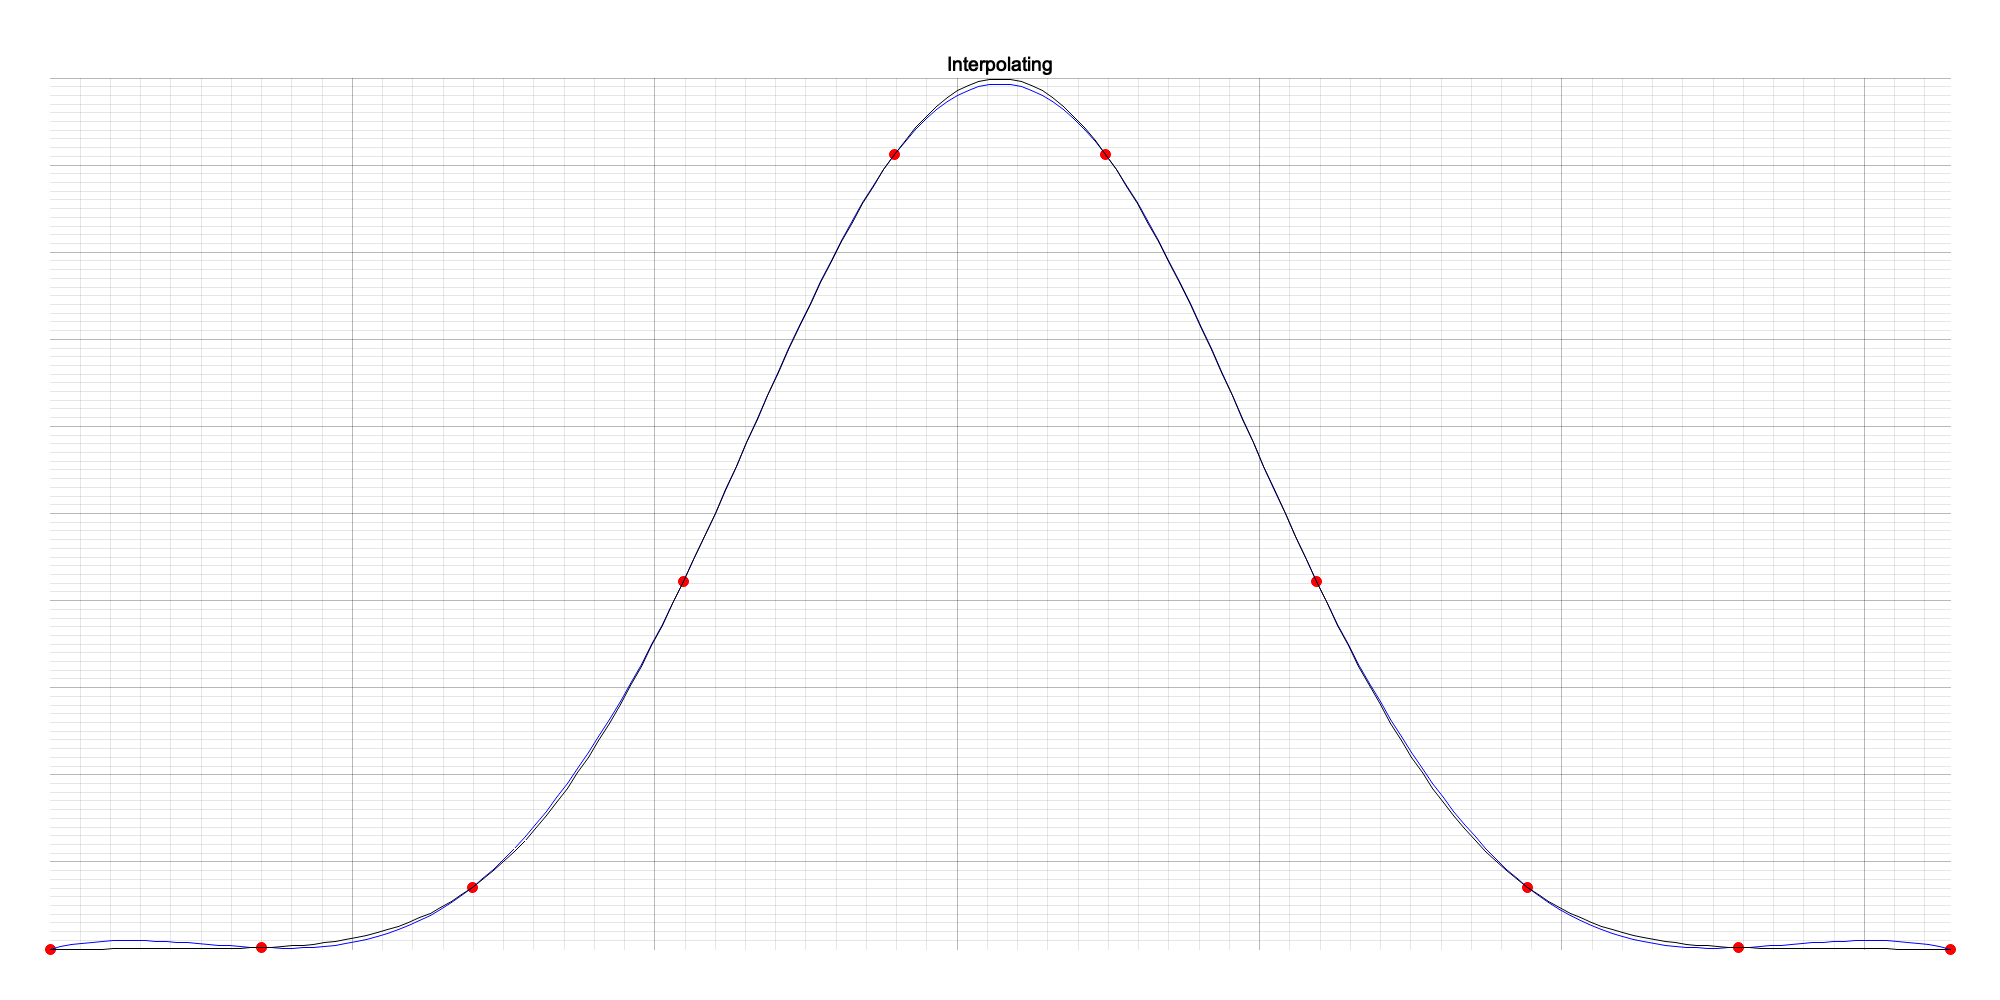
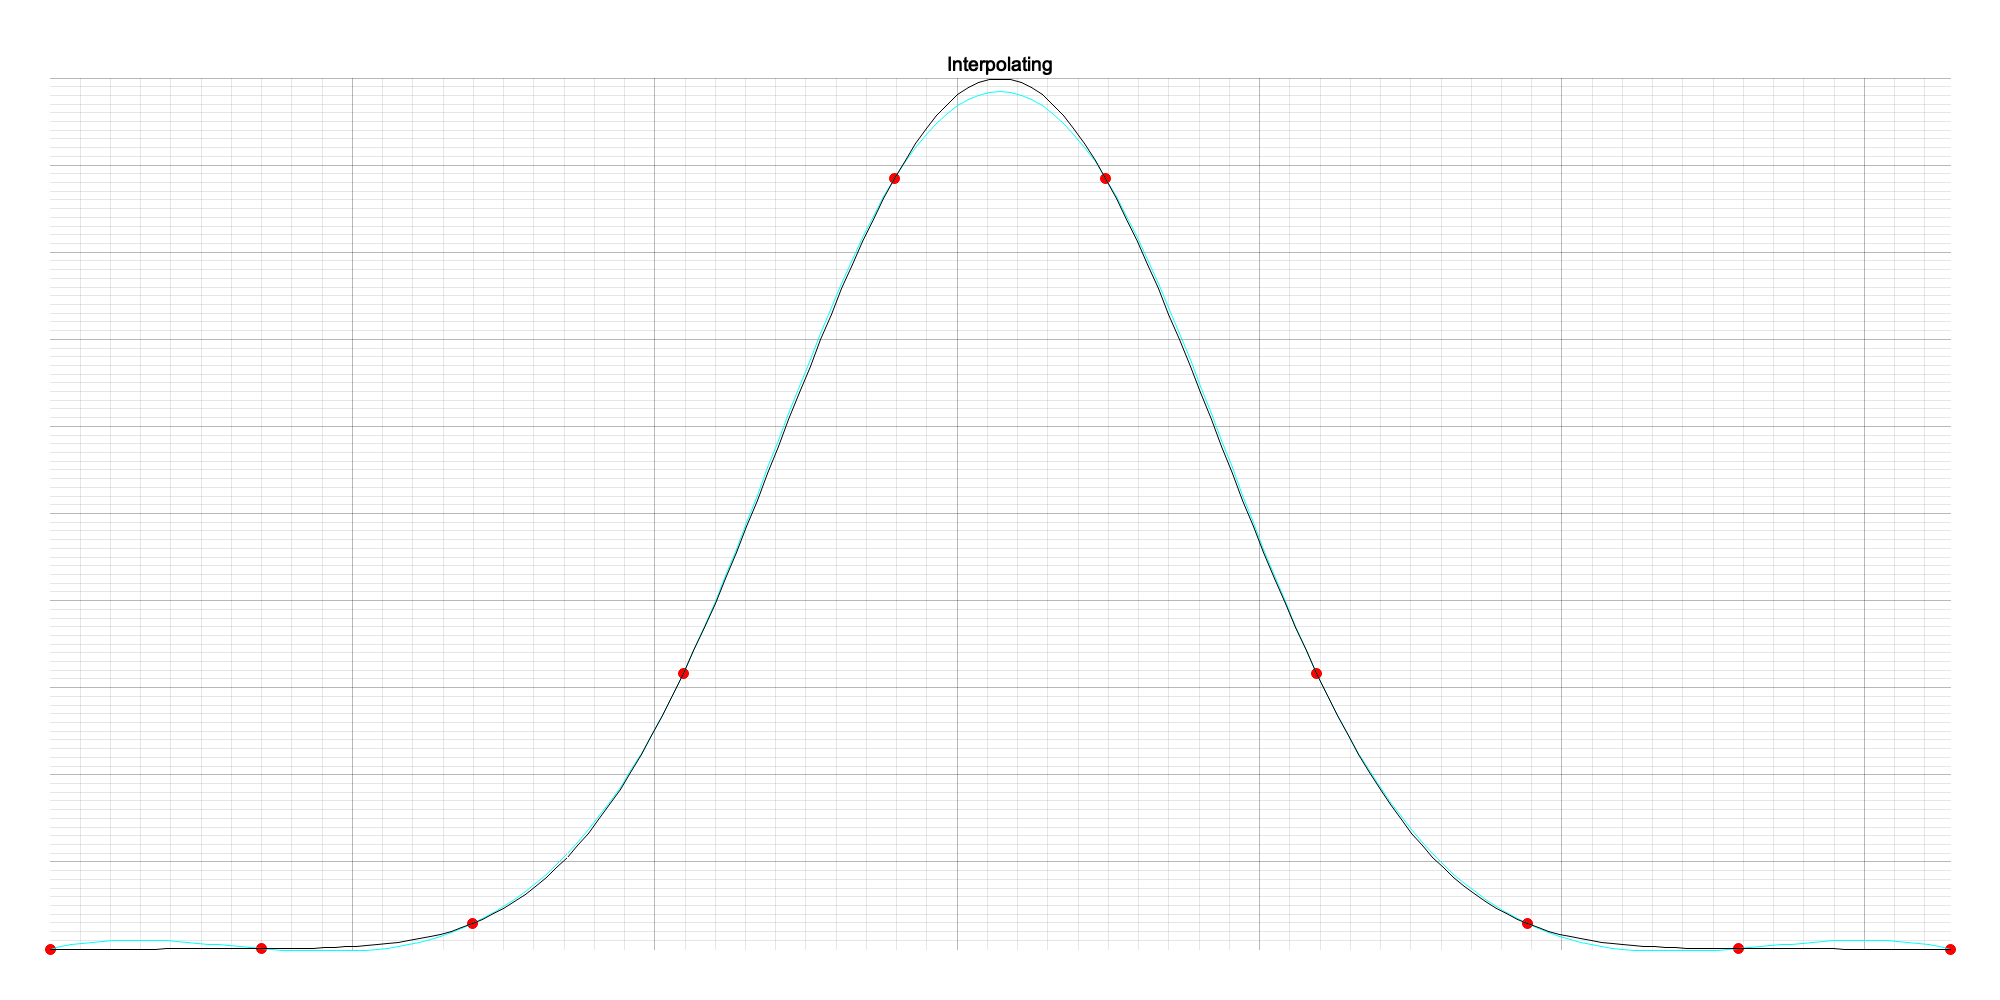
Renamed to CurveFit, and put in seperate module

diff --git a/tests/test_led.rs b/tests/test_led.rs
@@ -1,12 +1,12 @@
 
-use dierckx::Spline1D;
+use dierckx::CurveFit;
 
 #[test]
 fn test_smoothing() -> Result<(), Box<dyn std::error::Error>> {
     use plotters::prelude::*;
     let (x,y) = xys();
 
-    let mut d = Spline1D::<3>::new(x.clone(), y.clone(), None);
+    let mut d = CurveFit::<3>::new(x.clone(), y.clone(), None);
     let (d, f) = d.smoothing_spline(1.25)?;
     println!("knots {:?}", d.tc.t);
     println!("number of knots: {}", d.tc.t.len());
@@ -24,7 +24,7 @@ fn test_smoothing() -> Result<(), Box<dyn std::error::Error>> {
     chart.configure_mesh().draw()?;
     chart.draw_series(LineSeries::new(x.iter().cloned().zip(y.iter().cloned()), &BLUE))?;
 
-    let y_s = d.as_ref().values(&x)?;
+    let y_s = d.as_ref().evaluate(&x)?;
     chart.draw_series(LineSeries::new(x.iter().cloned().zip(y_s.iter().cloned()), &BLACK))?;
     chart.draw_series(d.tc.t.iter().cloned().zip(d.tc.c.iter().cloned()).map(|xy| Circle::new(xy, 3, RED.filled())))?;
 
@@ -38,7 +38,7 @@ fn test_cardinal() -> Result<(), Box<dyn std::error::Error>> {
     use plotters::prelude::*;
     let (x,y) = xys();
 
-    let d = Spline1D::<3>::new(x.clone(), y.clone(), None);
+    let d = CurveFit::<3>::new(x.clone(), y.clone(), None);
     let (tc, f) = d.cardinal_spline(10.0)?;
     println!("knots {:?}", tc.t);
     println!("number of knots: {}", tc.t.len());
@@ -56,7 +56,7 @@ fn test_cardinal() -> Result<(), Box<dyn std::error::Error>> {
     chart.configure_mesh().draw()?;
     chart.draw_series(LineSeries::new(x.iter().cloned().zip(y.iter().cloned()), &BLUE))?;
 
-    let y_s = tc.values(&x)?;
+    let y_s = tc.evaluate(&x)?;
     chart.draw_series(LineSeries::new(x.iter().cloned().zip(y_s.iter().cloned()), &BLACK))?;
     chart.draw_series(tc.t.iter().cloned().zip(tc.c.iter().cloned()).map(|xy| Circle::new(xy, 3, RED.filled())))?;
 
@@ -80,11 +80,10 @@ fn test_interpolating_spline() -> Result<(), Box<dyn std::error::Error>> {
     use plotters::prelude::*;
 
 
-
     let x: Vec<f64> = (0..=180).map(|i|(i as f64).to_radians()).collect();
-    let y: Vec<f64> = x.iter().map(|x|x.sin().powi(6)).collect();
+    let y: Vec<f64> = x.iter().map(|x|x.sin().powi(8)).collect();
     let x_data: Vec<f64> = (0..=180).step_by(20).map(|i|(i as f64).to_radians()).collect();
-    let y_data: Vec<f64> = x_data.iter().map(|x|x.sin().powi(6)).collect();
+    let y_data: Vec<f64> = x_data.iter().map(|x|x.sin().powi(8)).collect();
 
     let root = BitMapBackend::new("interpolating_spline.png", (2000, 1000)).into_drawing_area();
     root.fill(&WHITE)?;
@@ -94,9 +93,9 @@ fn test_interpolating_spline() -> Result<(), Box<dyn std::error::Error>> {
         .build_cartesian_2d(0f64..180f64.to_radians(), 0.0..1.0)?;
     chart.configure_mesh().draw()?;
     chart.draw_series(x_data.iter().cloned().zip(y_data.iter().cloned()).map(|xy| Circle::new(xy, 5, RED.filled())))?;
-    let d = Spline1D::<3>::new(x_data, y_data, None);
-    let y_fit = d.interpolating_spline()?.values(&x)?;
-    chart.draw_series(LineSeries::new(x.iter().cloned().zip(y_fit.iter().cloned()), &BLUE))?;
+    let d = CurveFit::<3>::new(x_data, y_data, None);
+    let y_fit = d.interpolating_spline()?.evaluate(&x)?;
+    chart.draw_series(LineSeries::new(x.iter().cloned().zip(y_fit.iter().cloned()), &HSLColor(0.5, 1.0, 0.5)))?;
     chart.draw_series(LineSeries::new(x.iter().cloned().zip(y.iter().cloned()), &BLACK))?;
 
     /*

diff --git a/src/curfit.rs b/src/curfit.rs
@@ -2,78 +2,15 @@
 #![doc = include_str!("../README.md")]
 
 
-/// Foreign Function Interface definitions
-mod dierckx;
-
-pub mod curfit;
-pub use curfit::*;
 
 use std::error;
-use std::fmt;
-use crate::dierckx::{splev_};
+use std::iter::repeat;
+use crate::dierckx::{curfit_};
+use super::{Spline, DierckxError};
 
 
 type Result<T> = std::result::Result<T, Box<dyn error::Error>>;
 
-#[derive(Debug, Clone)]
-pub struct DierckxError{
-    pub ierr: i32,
-}
-
-impl DierckxError {
-    fn new(ierr: i32) -> Self { Self { ierr } }
-}
-
-impl fmt::Display for DierckxError {
-    fn fmt(&self, f: &mut fmt::Formatter) -> fmt::Result {
-        match self.ierr {
-           -2 => write!(f, "normal return for weighted least squares spline, fp upper bound for smoothing factor"),
-           -1 => write!(f, "normal return for interpolating spline"),
-            0 => write!(f, "normal return"),
-            1 => write!(f, "error, out of storage space; nest too small (m/2); or s too small"),
-            2 => write!(f, "error, smoothing spline error, s too small"),
-            3 => write!(f, "error, reached iteration limit (20) for finding smoothing spline; s too small"),
-           10 => write!(f, "error, invalid input data; check if -1<=iopt<=1, 1<=k<=5, m>k, nest>2*k+2, w(i)>0,i=1,2,...,m xb<=x(1)<x(2)<...<x(m)<=xe, lwrk>=(k+1)*m+nest*(7+3*k)"),
-            _ => write!(f, "unknown error"),
-        }
-    }
-}
-
-
-impl error::Error for DierckxError {}
-
-
-/**
- * General K-degree B-Spline Knot/Coefficient Representation
- */
-pub struct Spline<const K:usize> {
-    pub t: Vec<f64>,    // Knot values
-    pub c: Vec<f64>,    // b-Spline coefficients
-}
-
-impl<const K:usize> Spline<K>  {
-    pub fn new(t: Vec<f64>, c: Vec<f64>) -> Self {
-        assert!(t.len()==c.len());
-        Self {t, c}
-    }
-    
-    pub fn evaluate(&self, x: &Vec<f64>) -> Result<Vec<f64>> {
-        let k = K;
-        let m = x.len();
-        let mut y = vec![0.0; m];
-        let n = self.t.len();
-        let mut ierr = 0;
-        unsafe {splev_(self.t.as_ptr(), &n, self.c.as_ptr(), &k, x.as_ptr(), y.as_mut_ptr(), &m, &mut ierr) }
-        if ierr<=0 {
-            Ok(y)
-        } else {
-            Err(DierckxError::new(ierr).into())
-        }
-    }
-}
-
-
-/*
 
 pub struct CurveFit<const K:usize> {
     // input values
@@ -258,5 +195,3 @@ impl<const K:usize> AsRef<Spline<K>> for CurveFit<K> {
         &self.tc
     }
 }
-
- */
